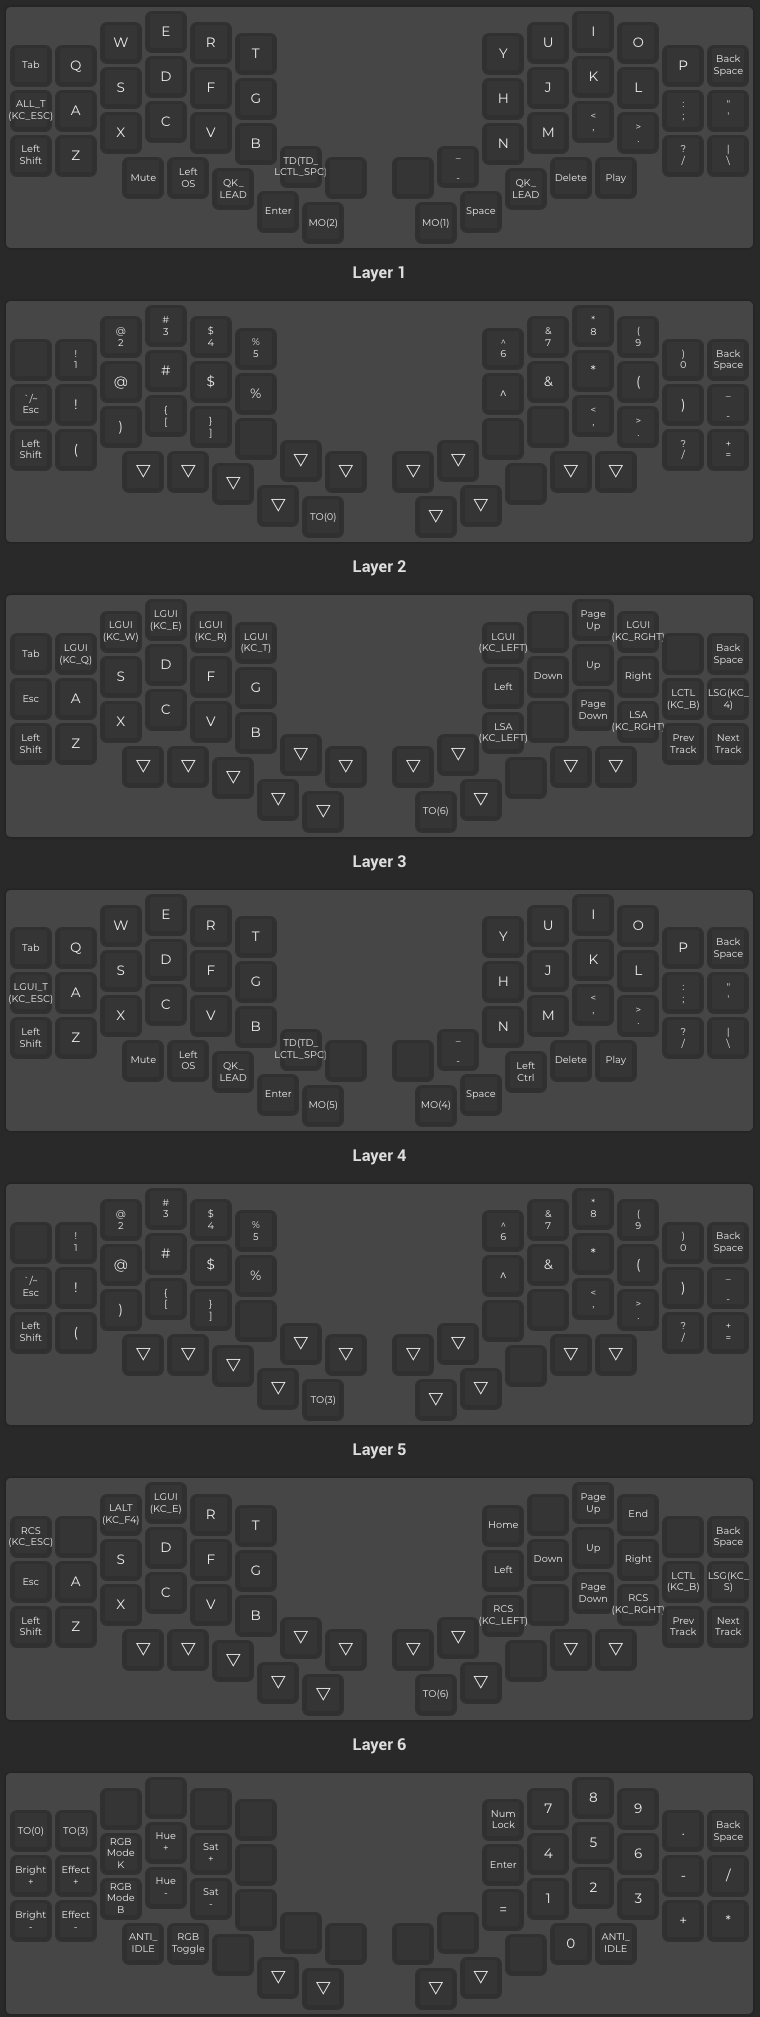
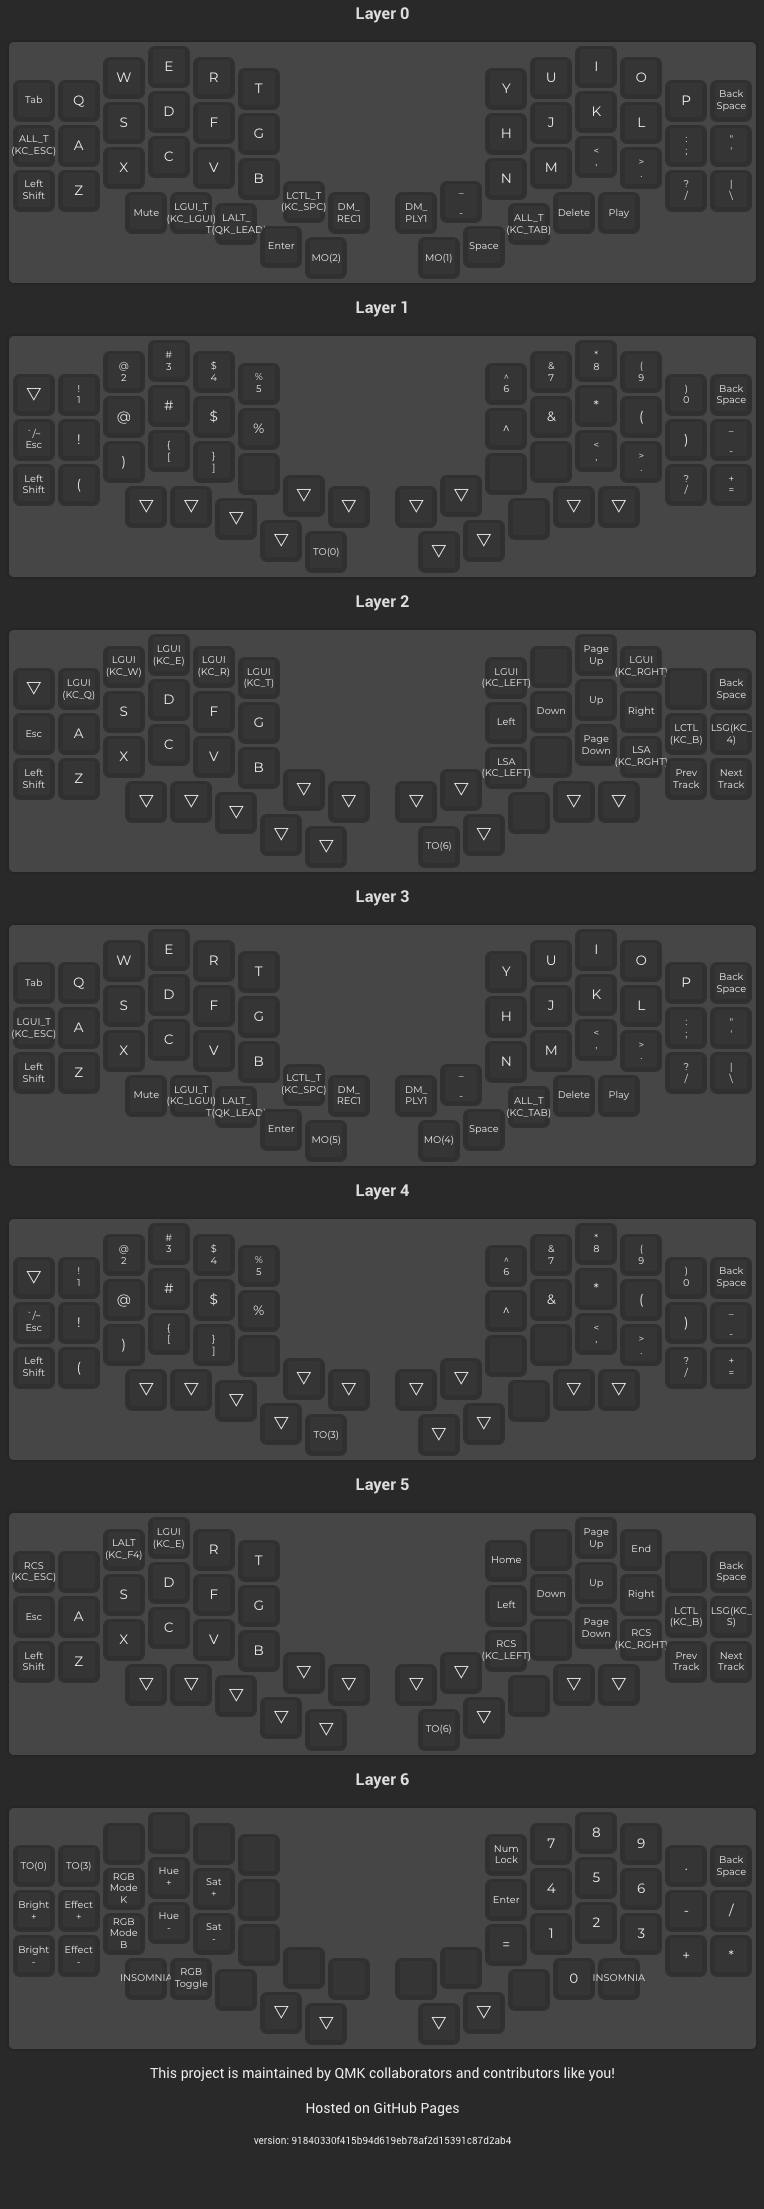
trial adjustment

diff --git a/keymap.c b/keymap.c
@@ -79,10 +79,10 @@ combo_t key_combos[COMBO_COUNT] = {
 };
 
 const uint16_t PROGMEM keymaps[][MATRIX_ROWS][MATRIX_COLS] = {
-	[MAC_BASE] = LAYOUT(KC_TAB, KC_Q, KC_W, KC_E, KC_R, KC_T, KC_Y, KC_U, KC_I, KC_O, KC_P, KC_BSPC, ALL_T(KC_ESC), KC_A, KC_S, KC_D, KC_F, KC_G, KC_H, KC_J, KC_K, KC_L, KC_SCLN, KC_QUOT, KC_LSFT, KC_Z, KC_X, KC_C, KC_V, KC_B, KC_SPC, DM_REC1, DM_PLY1, KC_MINS, KC_N, KC_M, KC_COMM, KC_DOT, KC_SLSH, KC_BSLS, KC_MUTE, LGUI_T(KC_LGUI), QK_LEAD, KC_ENT, MO(2), MO(1), KC_SPC, QK_LEAD, KC_DEL, KC_MPLY),
+	[MAC_BASE] = LAYOUT(KC_TAB, KC_Q, KC_W, KC_E, KC_R, KC_T, KC_Y, KC_U, KC_I, KC_O, KC_P, KC_BSPC, ALL_T(KC_ESC), KC_A, KC_S, KC_D, KC_F, KC_G, KC_H, KC_J, KC_K, KC_L, KC_SCLN, KC_QUOT, KC_LSFT, KC_Z, KC_X, KC_C, KC_V, KC_B, LCTL_T(KC_SPC), DM_REC1, DM_PLY1, KC_MINS, KC_N, KC_M, KC_COMM, KC_DOT, KC_SLSH, KC_BSLS, KC_MUTE, LGUI_T(KC_LGUI), LALT_T(QK_LEAD), KC_ENT, MO(2), MO(1), KC_SPC, ALL_T(KC_TAB), KC_DEL, KC_MPLY),
 	[MAC_SYMBOL] = LAYOUT(KC_TRNS, KC_1, KC_2, KC_3, KC_4, KC_5, KC_6, KC_7, KC_8, KC_9, KC_0, KC_BSPC, QK_GESC, KC_EXLM, KC_AT, KC_HASH, KC_DLR, KC_PERC, KC_CIRC, KC_AMPR, KC_ASTR, KC_LPRN, KC_RPRN, KC_MINS, KC_LSFT, KC_LPRN, KC_RPRN, KC_LBRC, KC_RBRC, KC_NO, KC_TRNS, KC_TRNS, KC_TRNS, KC_TRNS, KC_NO, KC_NO, KC_COMM, KC_DOT, KC_SLSH, KC_EQL, KC_TRNS, KC_TRNS, KC_TRNS, KC_TRNS, TO(0), KC_TRNS, KC_TRNS, KC_NO, KC_TRNS, KC_TRNS),
 	[MAC_NAVIGATION] = LAYOUT(KC_TRNS, LGUI(KC_Q), LGUI(KC_W), LGUI(KC_E), LGUI(KC_R), LGUI(KC_T), LGUI(KC_LEFT), KC_NO, KC_PGUP, LGUI(KC_RIGHT), KC_NO, KC_BSPC, KC_ESC, KC_A, KC_S, KC_D, KC_F, KC_G, KC_LEFT, KC_DOWN, KC_UP, KC_RGHT, LCTL(KC_B), LSG(KC_4), KC_LSFT, KC_Z, KC_X, KC_C, KC_V, KC_B, KC_TRNS, KC_TRNS, KC_TRNS, KC_TRNS, LSA(KC_LEFT), KC_NO, KC_PGDN, LSA(KC_RIGHT), KC_MRWD, KC_MFFD, KC_TRNS, KC_TRNS, KC_TRNS, KC_TRNS, KC_TRNS, TO(6), KC_TRNS, KC_NO, KC_TRNS, KC_TRNS),
-	[WIN_BASE] = LAYOUT(KC_TAB, KC_Q, KC_W, KC_E, KC_R, KC_T, KC_Y, KC_U, KC_I, KC_O, KC_P, KC_BSPC, LGUI_T(KC_ESC), KC_A, KC_S, KC_D, KC_F, KC_G, KC_H, KC_J, KC_K, KC_L, KC_SCLN, KC_QUOT, KC_LSFT, KC_Z, KC_X, KC_C, KC_V, KC_B, KC_SPC, DM_REC1, DM_PLY1, KC_MINS, KC_N, KC_M, KC_COMM, KC_DOT, KC_SLSH, KC_BSLS, KC_MUTE, LGUI_T(KC_LGUI), QK_LEAD, KC_ENT, MO(5), MO(4), KC_SPC, QK_LEAD, KC_DEL, KC_MPLY),
+	[WIN_BASE] = LAYOUT(KC_TAB, KC_Q, KC_W, KC_E, KC_R, KC_T, KC_Y, KC_U, KC_I, KC_O, KC_P, KC_BSPC, LGUI_T(KC_ESC), KC_A, KC_S, KC_D, KC_F, KC_G, KC_H, KC_J, KC_K, KC_L, KC_SCLN, KC_QUOT, KC_LSFT, KC_Z, KC_X, KC_C, KC_V, KC_B, LCTL_T(KC_SPC), DM_REC1, DM_PLY1, KC_MINS, KC_N, KC_M, KC_COMM, KC_DOT, KC_SLSH, KC_BSLS, KC_MUTE, LGUI_T(KC_LGUI), LALT_T(QK_LEAD), KC_ENT, MO(5), MO(4), KC_SPC, ALL_T(KC_TAB), KC_DEL, KC_MPLY),
 	[WIN_SYMBOL] = LAYOUT(KC_TRNS, KC_1, KC_2, KC_3, KC_4, KC_5, KC_6, KC_7, KC_8, KC_9, KC_0, KC_BSPC, QK_GESC, KC_EXLM, KC_AT, KC_HASH, KC_DLR, KC_PERC, KC_CIRC, KC_AMPR, KC_ASTR, KC_LPRN, KC_RPRN, KC_MINS, KC_LSFT, KC_LPRN, KC_RPRN, KC_LBRC, KC_RBRC, KC_NO, KC_TRNS, KC_TRNS, KC_TRNS, KC_TRNS, KC_NO, KC_NO, KC_COMM, KC_DOT, KC_SLSH, KC_EQL, KC_TRNS, KC_TRNS, KC_TRNS, KC_TRNS, TO(3), KC_TRNS, KC_TRNS, KC_NO, KC_TRNS, KC_TRNS),
 	[WIN_NAVIGATION] = LAYOUT(RCS(KC_ESC), KC_NO, LALT(KC_F4), LGUI(KC_E), KC_R, KC_T, KC_HOME, KC_NO, KC_PGUP, KC_END, KC_NO, KC_BSPC, KC_ESC, KC_A, KC_S, KC_D, KC_F, KC_G, KC_LEFT, KC_DOWN, KC_UP, KC_RGHT, LCTL(KC_B), LSG(KC_S), KC_LSFT, KC_Z, KC_X, KC_C, KC_V, KC_B, KC_TRNS, KC_TRNS, KC_TRNS, KC_TRNS, RCS(KC_LEFT), KC_NO, KC_PGDN, RCS(KC_RIGHT), KC_MRWD, KC_MFFD, KC_TRNS, KC_TRNS, KC_TRNS, KC_TRNS, KC_TRNS, TO(6), KC_TRNS, KC_NO, KC_TRNS, KC_TRNS),
 	[NUMPAD_RGB] = LAYOUT(TO(0), TO(3), KC_NO, KC_NO, KC_NO, KC_NO, KC_NUM, KC_P7, KC_P8, KC_P9, KC_PDOT, KC_BSPC, RGB_VAI, RGB_SPI, RGB_M_K, RGB_HUI, RGB_SAI, KC_NO, KC_PENT, KC_P4, KC_P5, KC_P6, KC_PMNS, KC_PSLS, RGB_VAD, RGB_SPD, RGB_M_B, RGB_HUD, RGB_SAD, KC_NO, KC_NO, KC_NO, KC_NO, KC_NO, KC_PEQL, KC_P1, KC_P2, KC_P3, KC_PPLS, KC_PAST, INSOMNIA, RGB_TOG, KC_NO, KC_TRNS, KC_TRNS, KC_TRNS, KC_TRNS, KC_NO, KC_P0, INSOMNIA)
